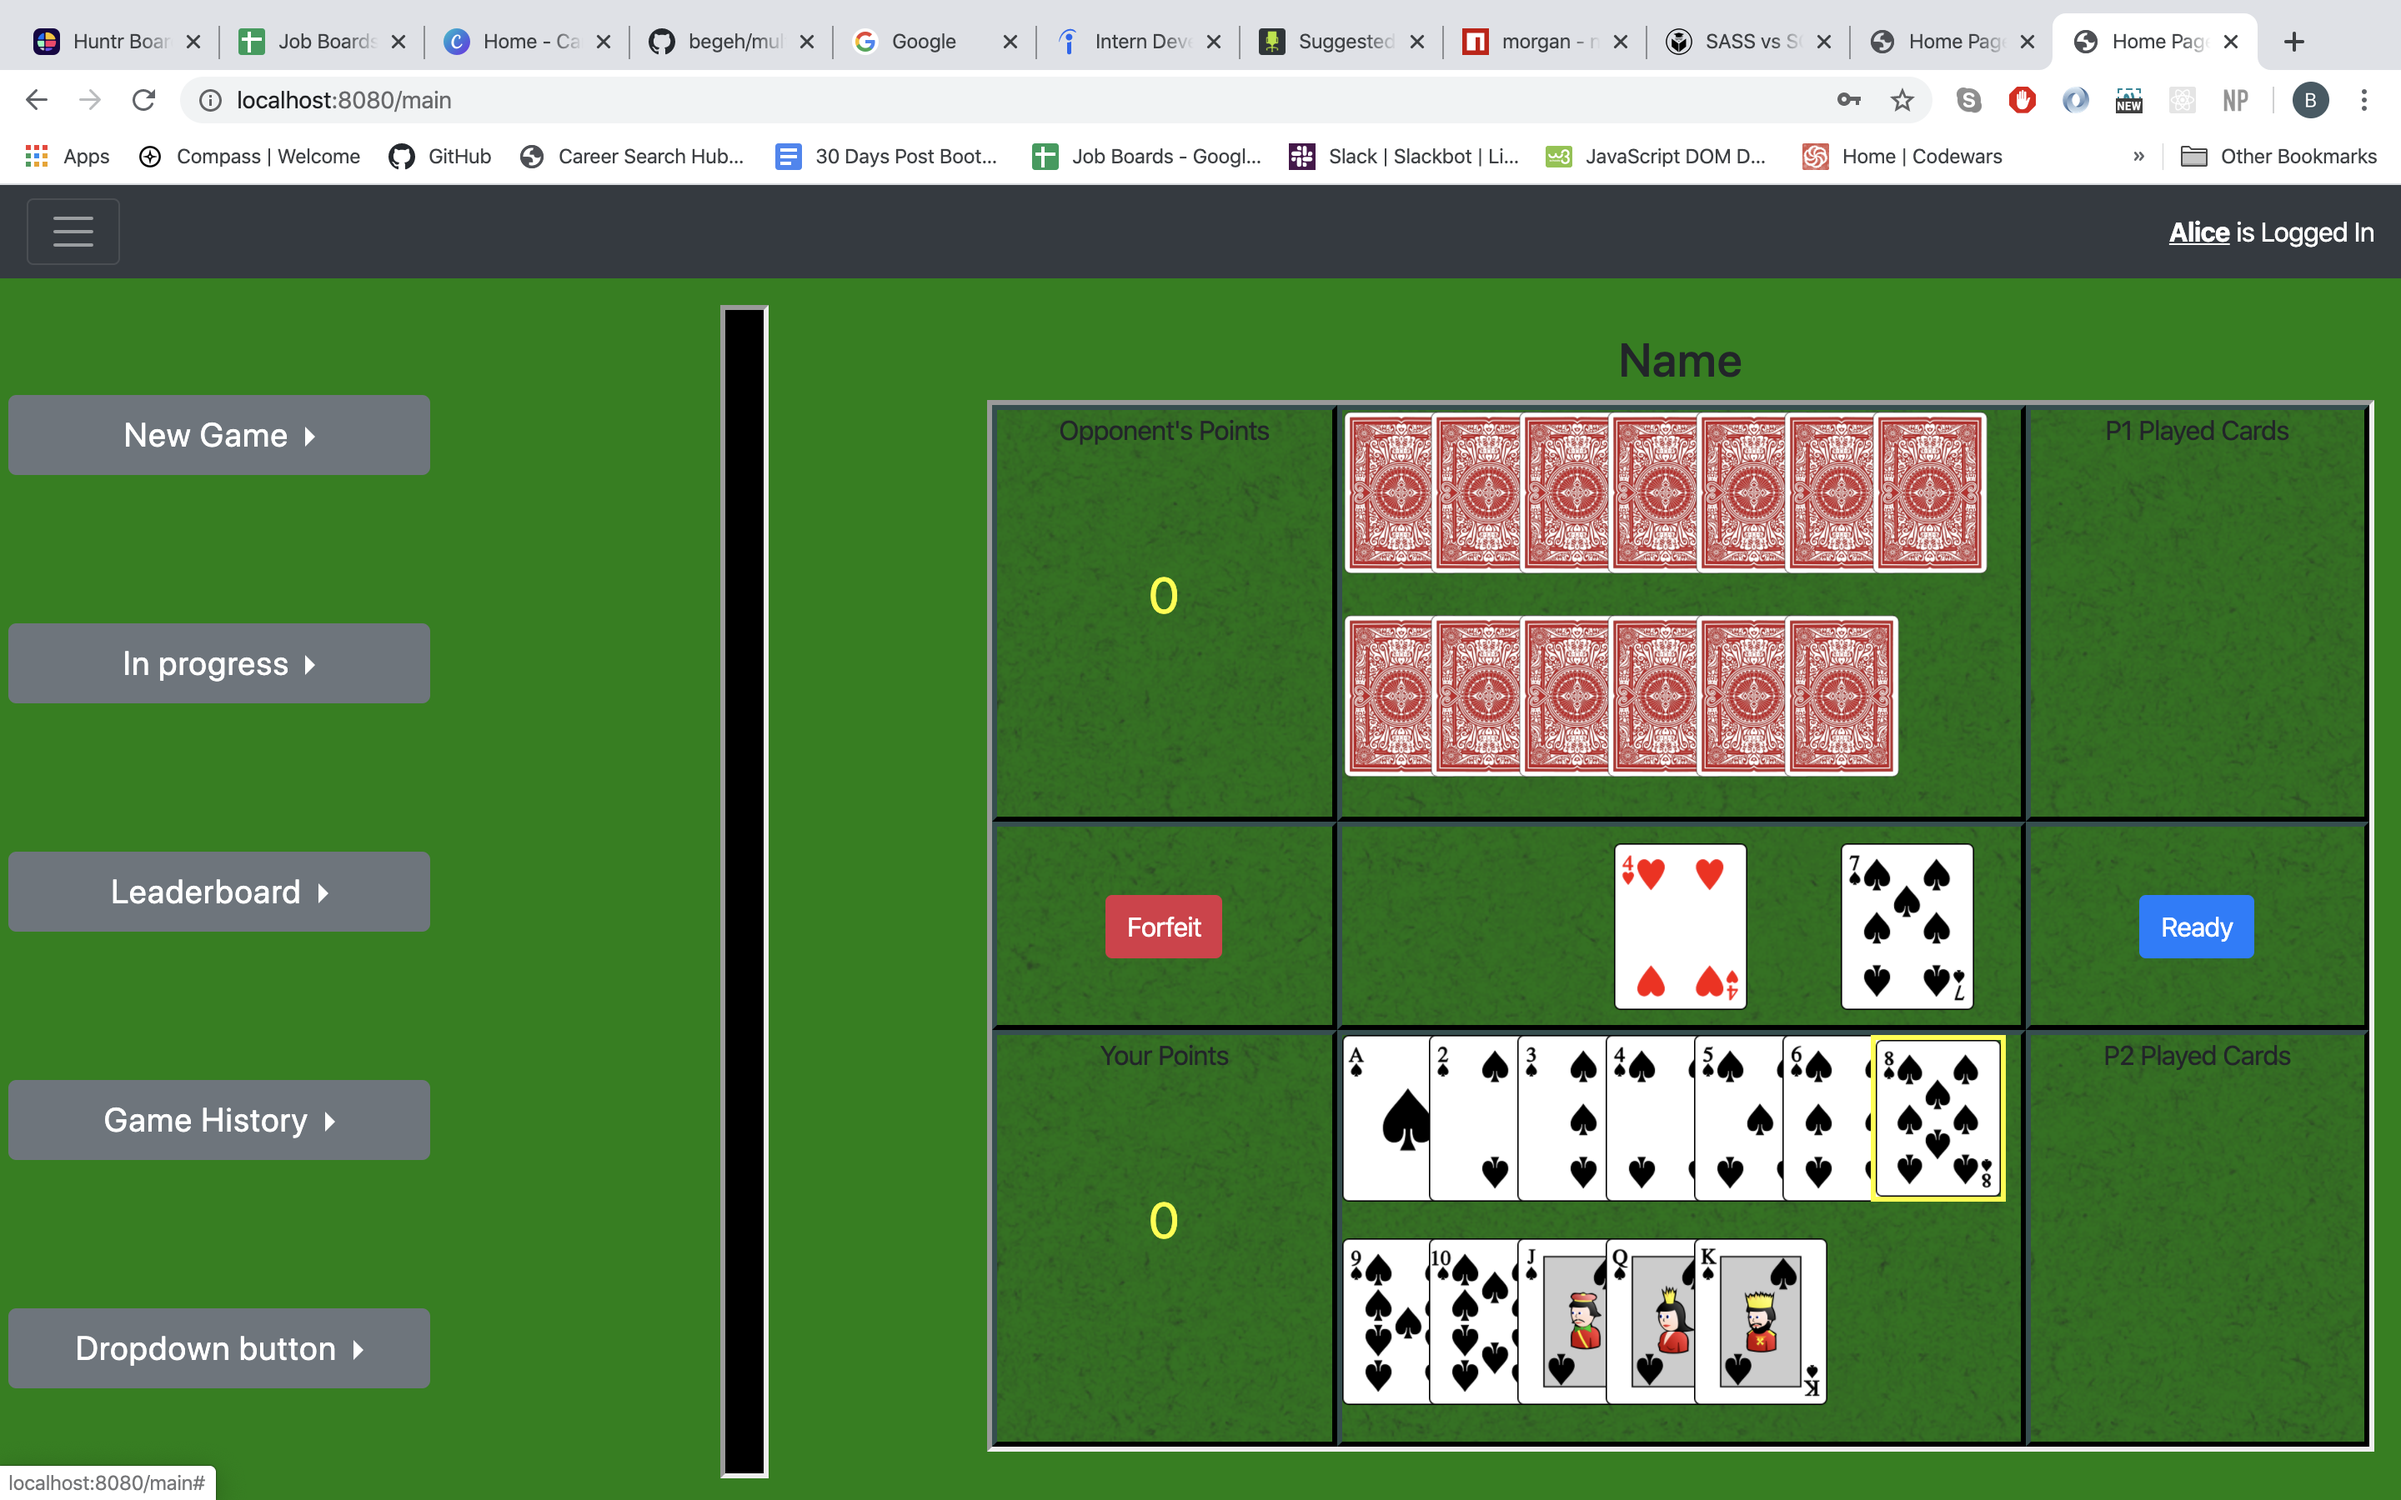
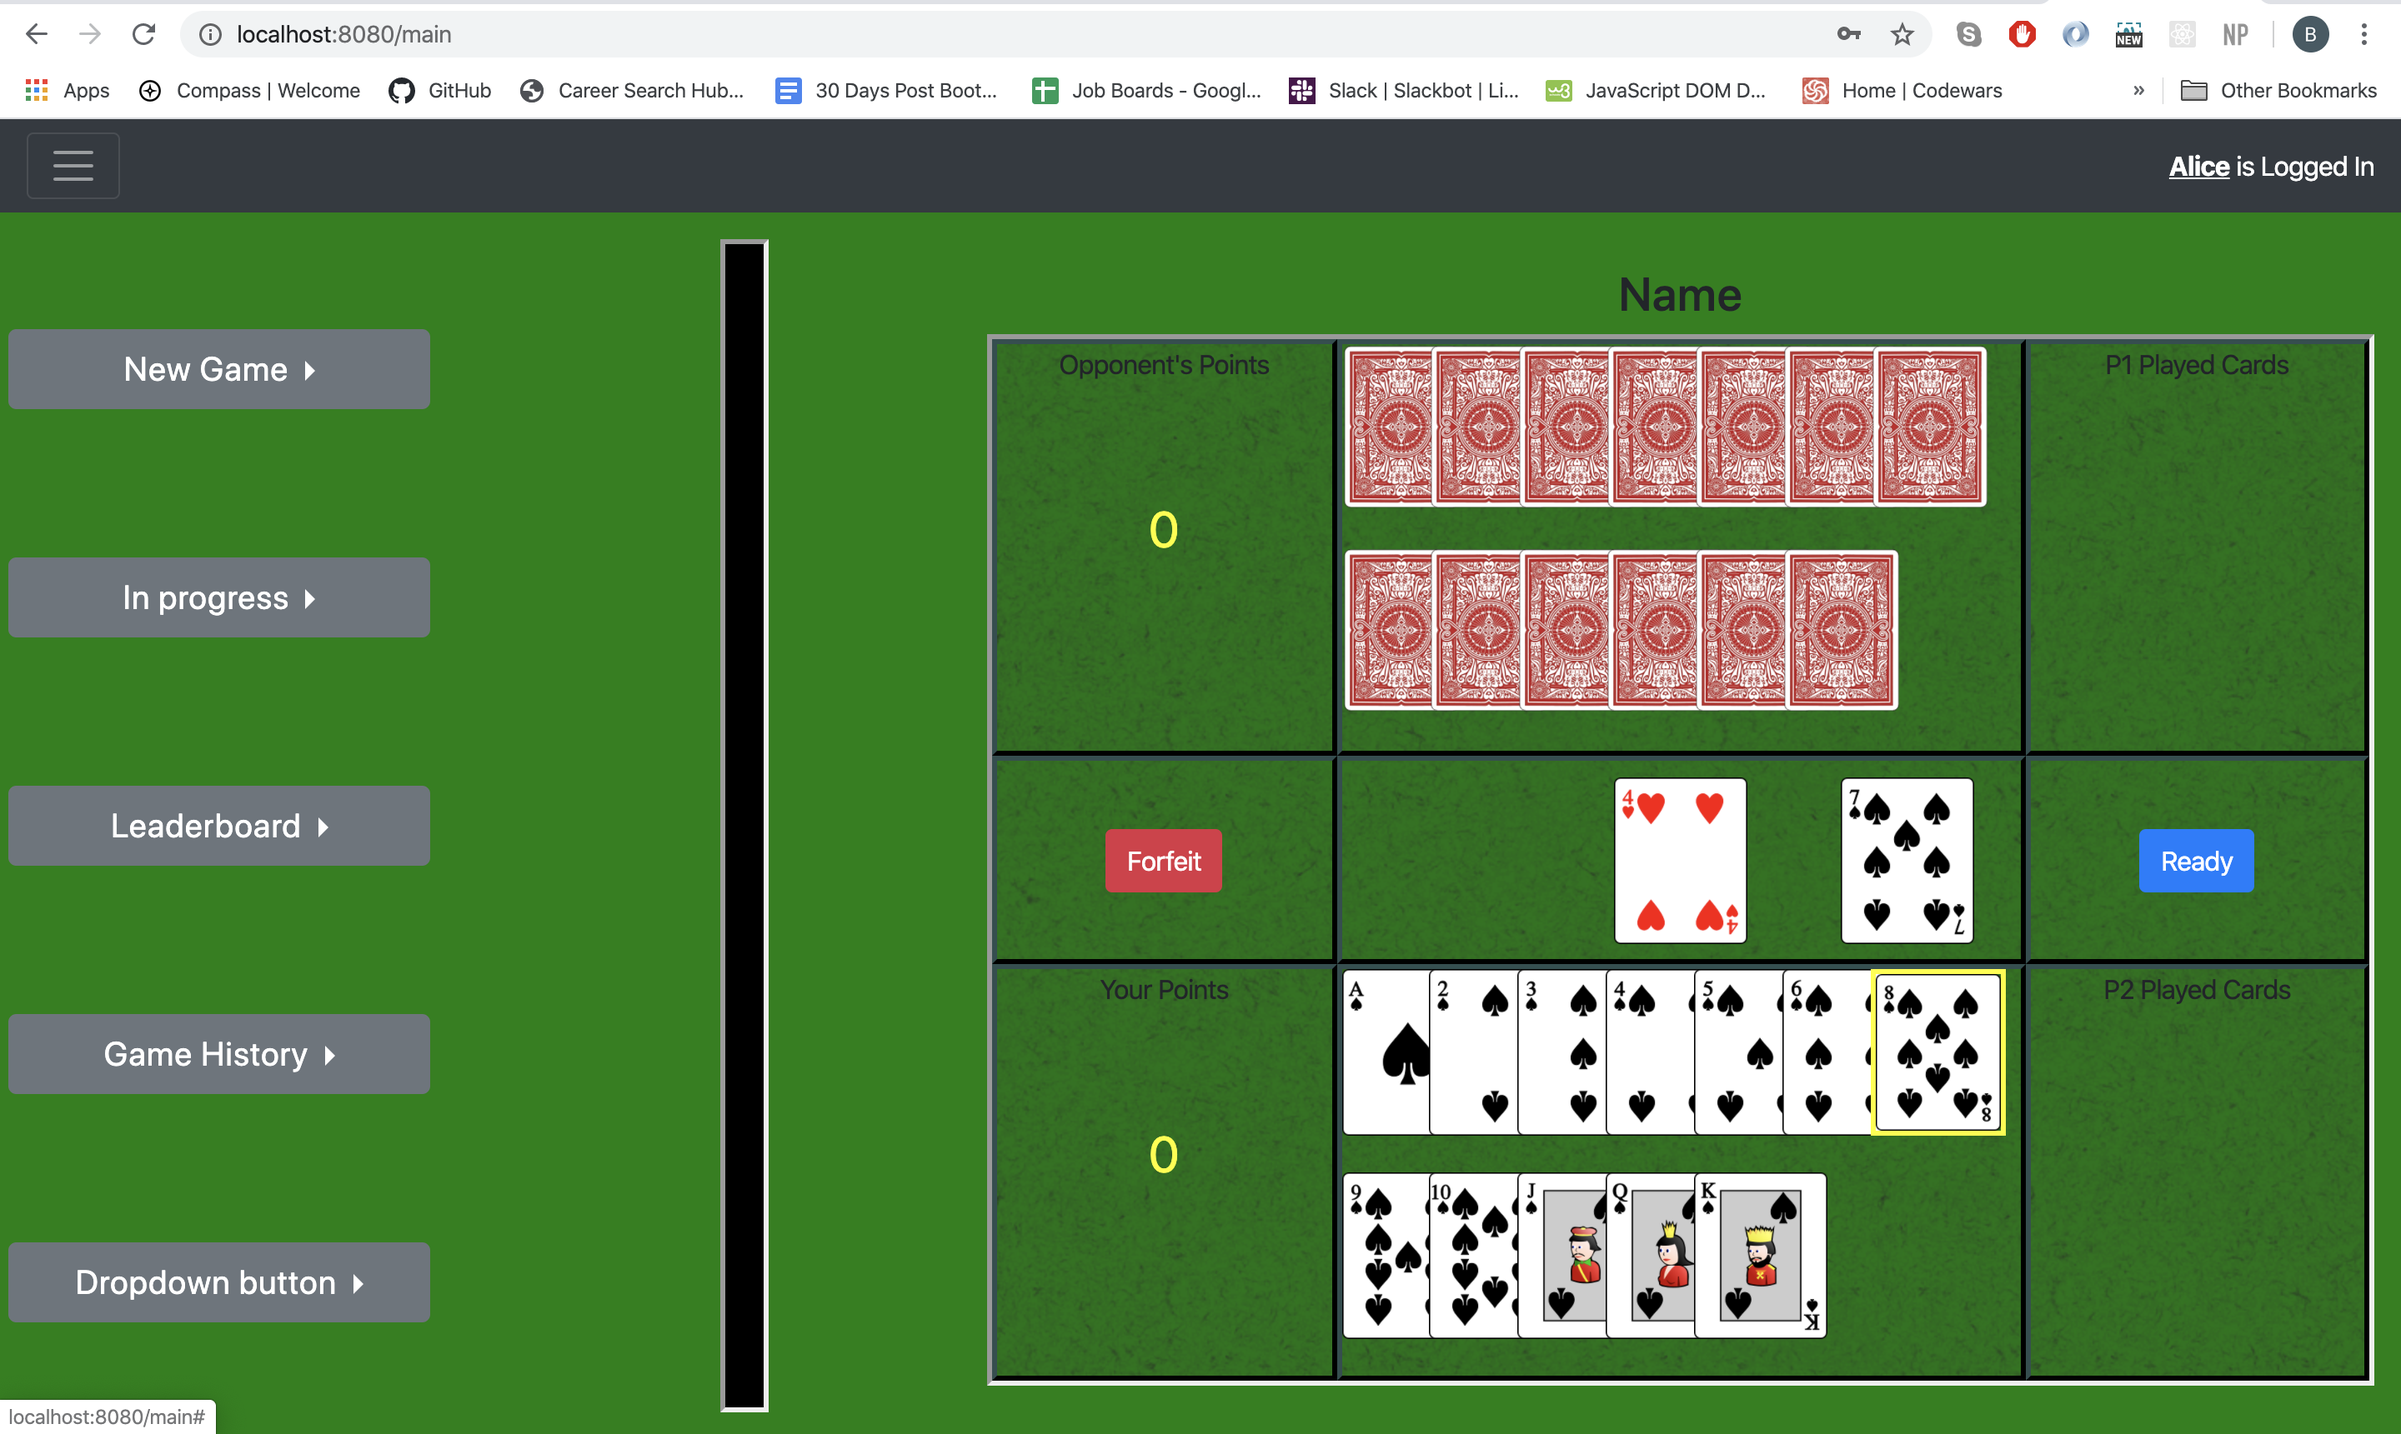
add gameboard3.png to docs folder and edited other screenshots to remove google chrome search bar

diff --git a/README.md b/README.md
@@ -20,6 +20,7 @@ Features included:
 !["Screenshot of Login"](https://github.com/begeh/multi-user-card-games/blob/master/docs/login.png)
 !["Screenshot of GoofSpiel First Player Play"](https://github.com/begeh/multi-user-card-games/blob/master/docs/gameboard1.png)
 !["Screenshot of GoofSpiel Second Player Play"](https://github.com/begeh/multi-user-card-games/blob/master/docs/gameboard2.png)
+!["Screenshot of GoofSpiel Game In Progress"](https://github.com/begeh/multi-user-card-games/blob/master/docs/gameboard2.png)
 
 ## Getting Started
 
